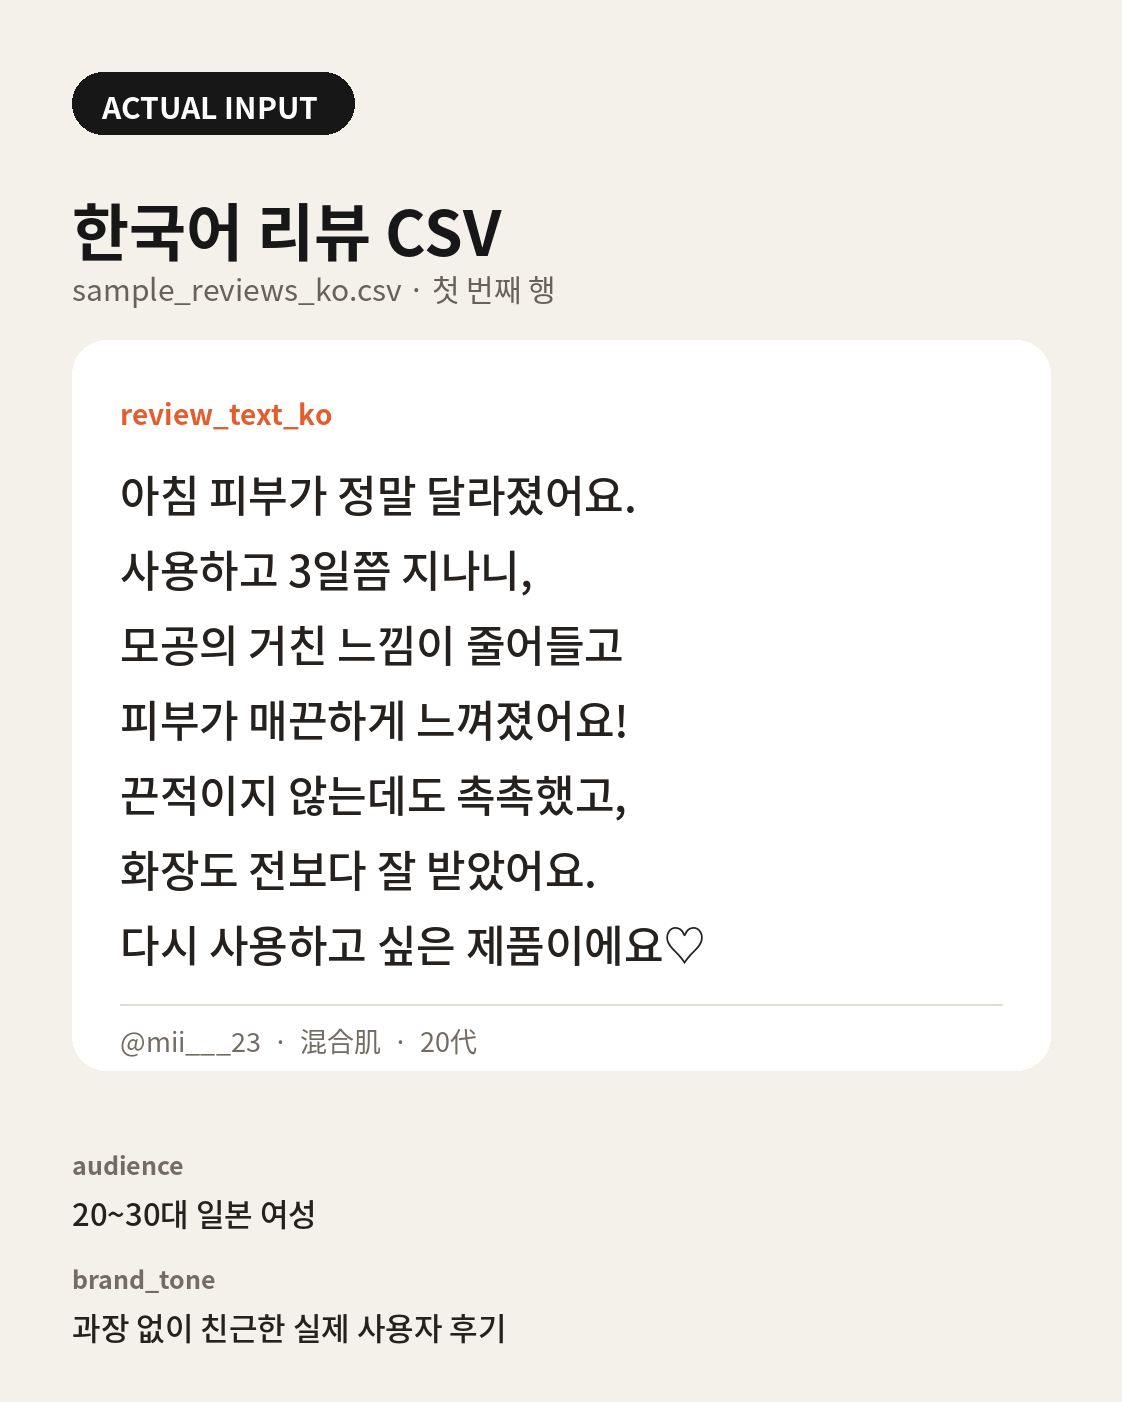
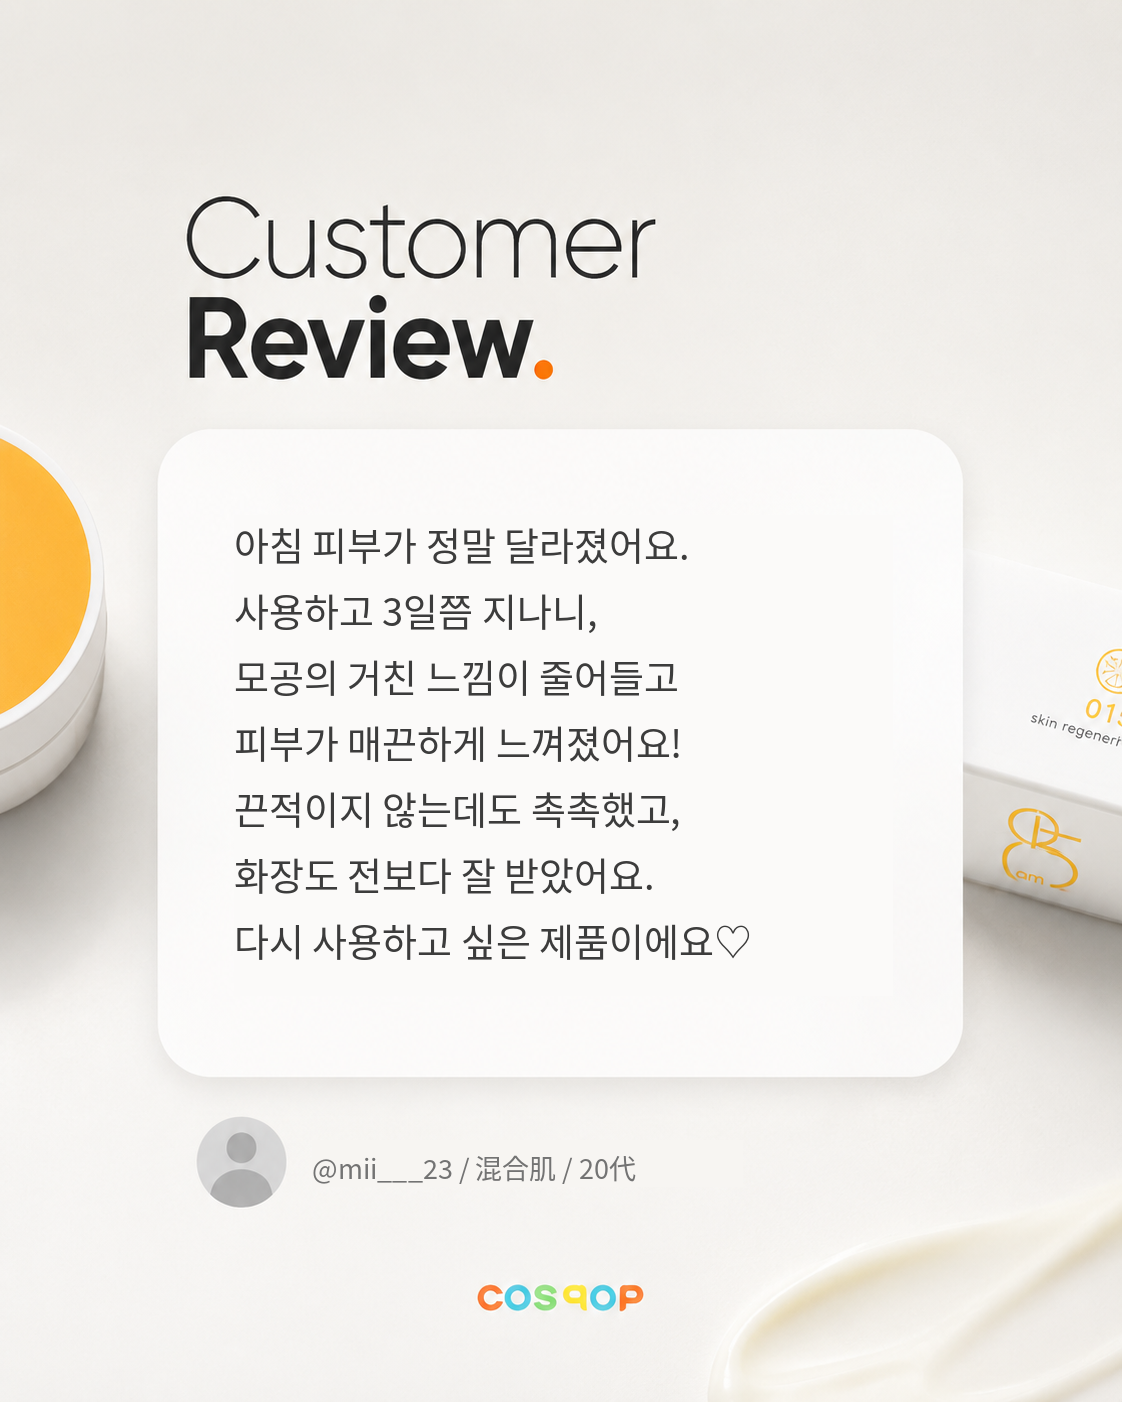
docs: 동일 템플릿의 변환 전후 이미지로 교체

diff --git a/scripts/publish_actual_example.py b/scripts/publish_actual_example.py
@@ -8,9 +8,9 @@ import csv
 import shutil
 from pathlib import Path
 
-from PIL import Image, ImageDraw, ImageFont
+from PIL import Image
 
-from translate_image import weighted_font_path
+import review_card
 
 CANVAS_SIZE = (1122, 1402)
 
@@ -20,6 +20,7 @@ def parse_args() -> argparse.Namespace:
     parser.add_argument("--input-csv", type=Path, required=True)
     parser.add_argument("--output-image", type=Path, required=True)
     parser.add_argument("--destination", type=Path, required=True)
+    parser.add_argument("--slots-dir", type=Path, default=Path("slots"))
     return parser.parse_args()
 
 
@@ -31,43 +32,11 @@ def load_first_row(path: Path) -> dict[str, str]:
     return row
 
 
-def font(weight: str, size: int) -> ImageFont.FreeTypeFont:
-    return ImageFont.truetype(weighted_font_path("ko", weight), size)
-
-
-def render_input_preview(row: dict[str, str], destination: Path) -> None:
-    image = Image.new("RGB", CANVAS_SIZE, "#F4F1EA")
-    draw = ImageDraw.Draw(image)
-
-    draw.rounded_rectangle((72, 72, 354, 134), radius=31, fill="#171717")
-    draw.text((102, 84), "ACTUAL INPUT", font=font("Bold", 30), fill="white")
-    draw.text((72, 184), "한국어 리뷰 CSV", font=font("Bold", 62), fill="#171717")
-    draw.text(
-        (72, 266),
-        "sample_reviews_ko.csv · 첫 번째 행",
-        font=font("Regular", 30),
-        fill="#66615A",
-    )
-
-    draw.rounded_rectangle((72, 340, 1050, 1070), radius=34, fill="white")
-    draw.text((120, 392), "review_text_ko", font=font("Bold", 28), fill="#E35D2F")
-
-    y = 462
-    review = row["review_text_ko"].replace("\\n", "\n")
-    for line in review.splitlines():
-        draw.text((120, y), line, font=font("Medium", 43), fill="#24211E")
-        y += 75
-
-    draw.line((120, 1004, 1002, 1004), fill="#E4DED4", width=2)
-    metadata = f'{row["handle"]}  ·  {row["skin_type"]}  ·  {row["age"]}'
-    draw.text((120, 1020), metadata, font=font("Regular", 27), fill="#726C64")
-
-    draw.text((72, 1146), "audience", font=font("Bold", 25), fill="#726C64")
-    draw.text((72, 1190), row["audience"], font=font("Medium", 31), fill="#24211E")
-    draw.text((72, 1260), "brand_tone", font=font("Bold", 25), fill="#726C64")
-    draw.text((72, 1304), row["brand_tone"], font=font("Medium", 31), fill="#24211E")
-
-    image.save(destination, optimize=True)
+def render_input_preview(row: dict[str, str], slots_dir: Path, destination: Path) -> None:
+    spec = review_card.load_spec(row["template"], str(slots_dir))
+    rendered_row = dict(row)
+    rendered_row["review_text"] = row["review_text_ko"]
+    review_card.render_card(spec, rendered_row, str(destination))
 
 
 def publish_output(source: Path, destination: Path) -> None:
@@ -81,7 +50,11 @@ def main() -> None:
     args = parse_args()
     args.destination.mkdir(parents=True, exist_ok=True)
     row = load_first_row(args.input_csv)
-    render_input_preview(row, args.destination / "input-korean-review.png")
+    render_input_preview(
+        row,
+        args.slots_dir,
+        args.destination / "input-korean-review.png",
+    )
     publish_output(args.output_image, args.destination / "output-japanese-review.png")
 
 

diff --git a/README.md b/README.md
@@ -58,11 +58,11 @@ cp .env.example .env
 
 ### 실제 실행 이미지
 
-왼쪽은 LLM에 전달한 한국어 CSV 첫 행을 시각화한 입력이고, 오른쪽은 같은 행을 `gpt-5.6-sol`로 현지화·검수한 뒤 Pillow로 렌더링한 실제 출력입니다.
+왼쪽은 한국어 원문을 고정 템플릿에 렌더링한 변환 전 카드이고, 오른쪽은 같은 원문을 `gpt-5.6-sol`로 현지화·검수한 실제 출력입니다. 배경·좌표·폰트 스타일은 유지하고 리뷰 텍스트만 교체했습니다.
 
-| Input — 한국어 CSV 행 | Output — 일본어 리뷰 카드 |
+| Input — 한국어 원문 카드 | Output — 일본어 현지화 카드 |
 | --- | --- |
-| ![실제 실행에 사용한 한국어 CSV 입력](docs/examples/actual-run/input-korean-review.png) | ![OpenAI API 현지화 후 생성한 일본어 리뷰 카드](docs/examples/actual-run/output-japanese-review.png) |
+| ![동일 템플릿에 렌더링한 한국어 원문 카드](docs/examples/actual-run/input-korean-review.png) | ![OpenAI API 현지화 후 동일 템플릿에 렌더링한 일본어 리뷰 카드](docs/examples/actual-run/output-japanese-review.png) |
 
 ### Input — `sample_reviews_ko.csv`
 